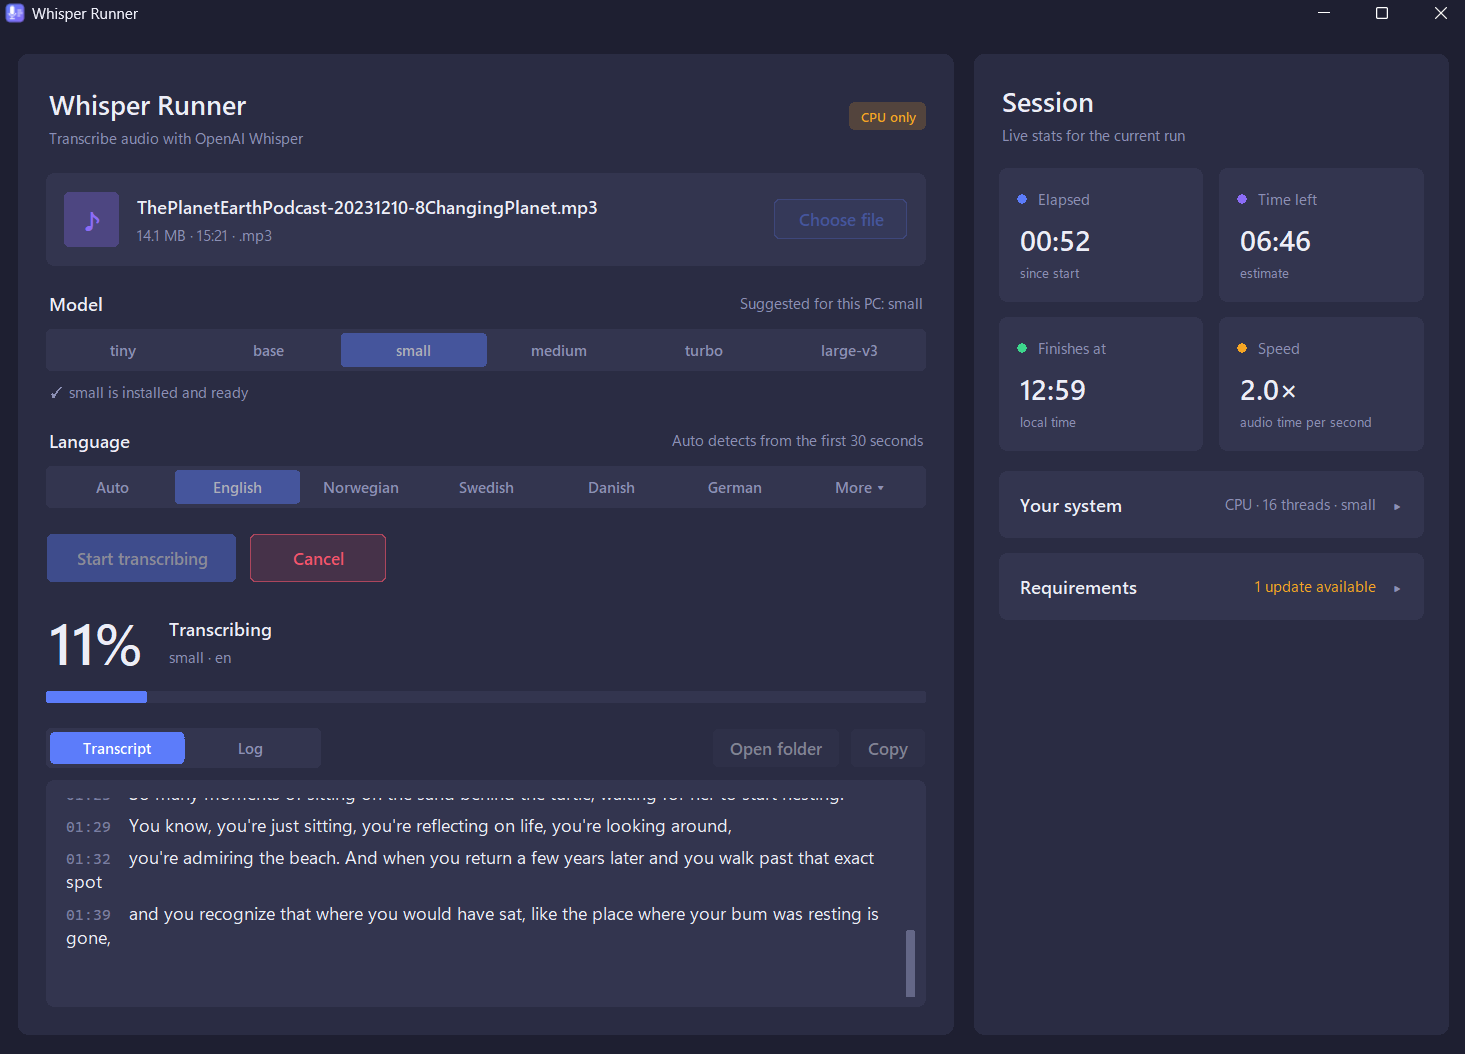
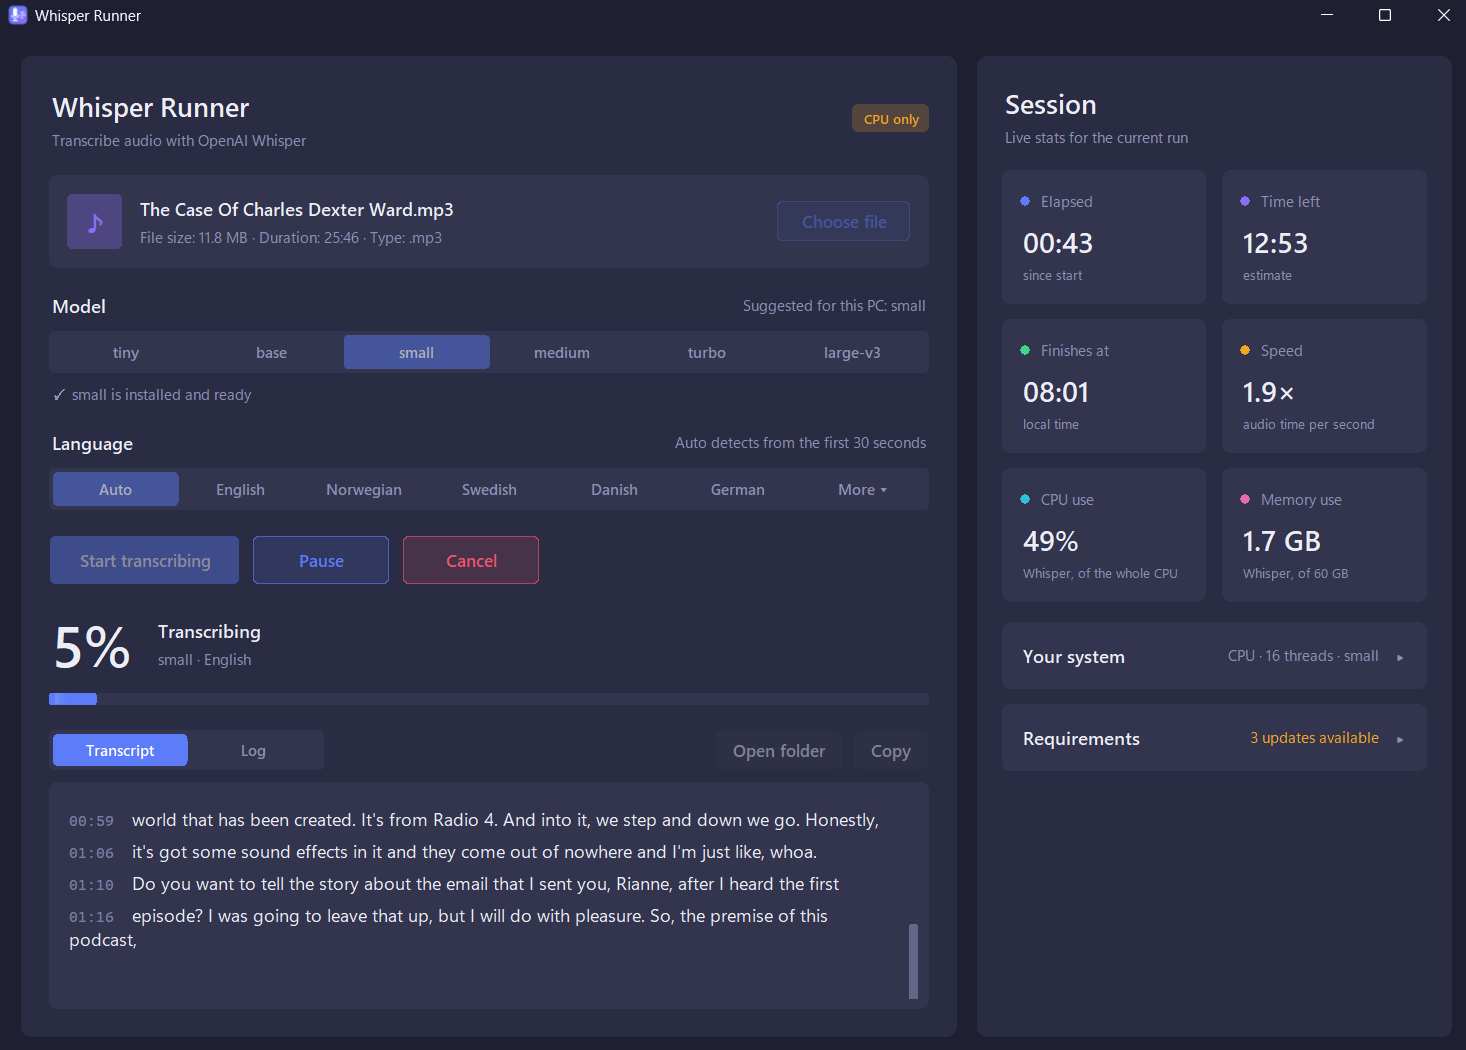
Add CPU and memory tiles; pause the whole Whisper process tree

diff --git a/README.md b/README.md
@@ -8,7 +8,7 @@ It's a single Python file. There's nothing to build: on Windows you double-click
 
 ## Features
 
-- **Live progress.** Percentage, a progress bar, elapsed time, time left, when it will finish, and speed.
+- **Live progress.** Percentage, a progress bar, elapsed time, time left, when it will finish, speed, and how much CPU and memory Whisper is using.
 - **Live transcript.** Text appears as Whisper produces it. When it's done, the transcript is saved as a `.txt` file next to the audio and shown in the app, ready to copy.
 - **Picks a model for your computer.** The app checks your CPU, memory and graphics card, and suggests the Whisper model that fits. You can always choose another one.
 - **Checks what's installed.** The Requirements section compares your Python, Whisper, PyTorch and FFmpeg with the latest versions and gives you the exact command to install or update each one, for your operating system. Click a command to copy it.
